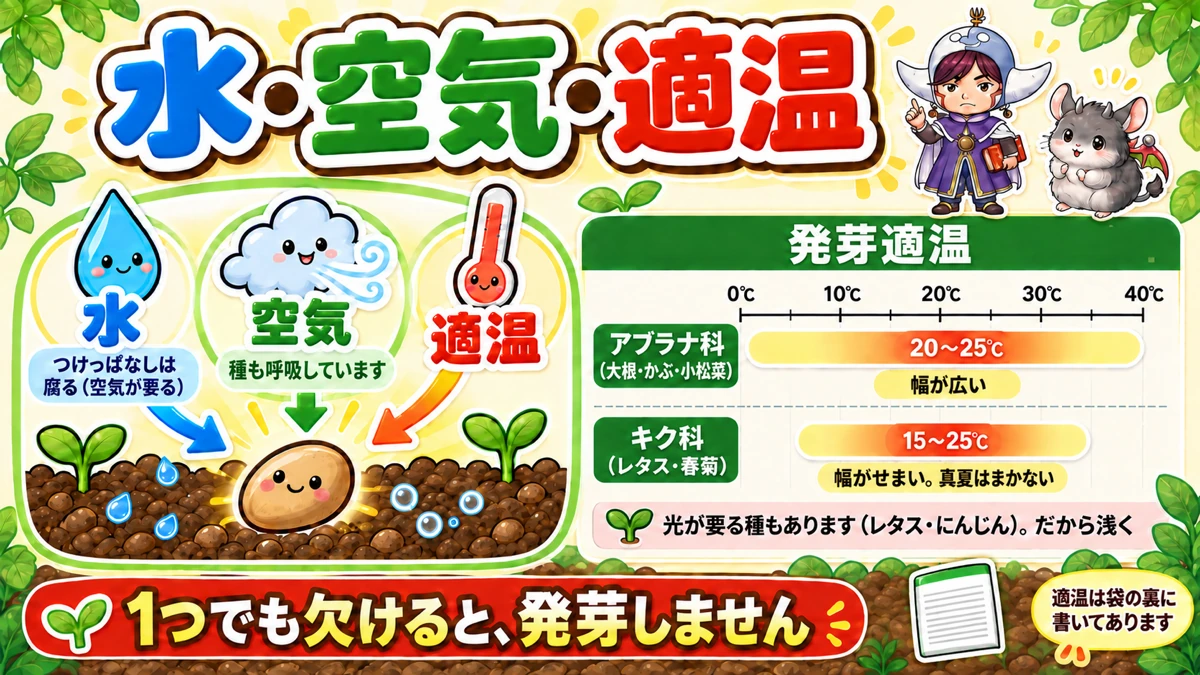
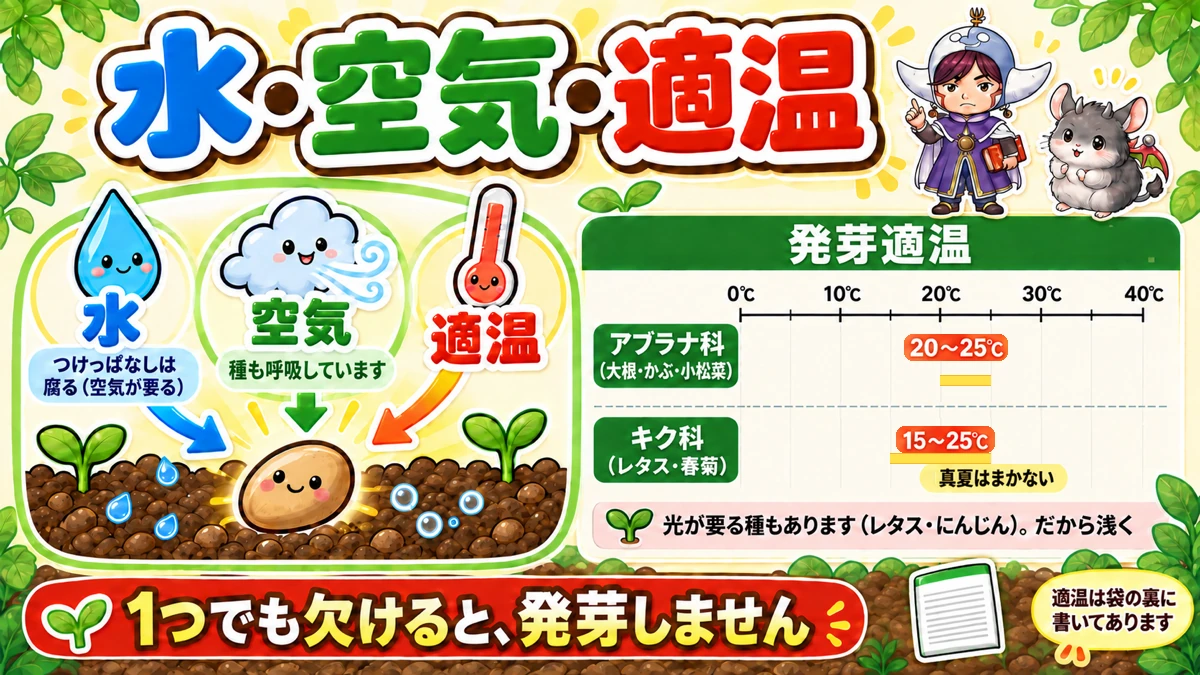
タネまき記事：発芽適温の「幅が広い／せまい」を外し、図のバーを数字に合わせた
本文の「アブラナ科は幅が広く、キク科はせまい」は、20〜25℃（5度幅）と
15〜25℃（10度幅）で数字と逆になっていた。ネタ帳でも裏が取れなかったため削除。

図も、目盛りと対応していなかったバーを 20〜25℃・15〜25℃ ちょうどに直し、
2本の太さをそろえた。「真夏はまかない」は原稿に裏があるので残した。

Changed region(s): [[0.6167, 0.4667, 0.9558, 0.5911], [0.6475, 0.6222, 0.925, 0.7467]]

diff --git a/articles/81-tanemaki.html b/articles/81-tanemaki.html
@@ -119,7 +119,7 @@
   <p>空気が要るからです。じめじめではなく、しっとり。これが正解です。</p>
   <h3>温度は、種類で違います</h3>
   <p>ここが見落とされがちです。</p>
-  <ul><li>アブラナ科（大根・かぶ・小松菜）… 20〜25℃くらい。幅が広く、暑さにも強い</li><li>キク科（レタス・春菊）… 15〜25℃くらい。幅がせまい</li></ul>
+  <ul><li>アブラナ科（大根・かぶ・小松菜）… 20〜25℃くらい</li><li>キク科（レタス・春菊）… 15〜25℃くらい</li></ul>
   <p>レタスを真夏にまいても出ないのは、これが理由です。</p>
   <p>種袋の裏に必ず書いてあります。買ったら、まず裏を見てください。</p>
   <h3>光が要る種もあります</h3>
@@ -190,7 +190,7 @@
 
   <h2 id="s7">まとめ</h2>
   <p>ここまで読んでくださって、ありがとうございます！</p>
-  <ul><li>かける土は、種の大きさの3倍</li><li>小さい種は5mm、中くらいは1cm、大粒は2cm</li><li>深いと、地上に出るまでに力尽きる</li><li>まいたら手のひらで押さえる（鎮圧）</li><li>押さえないと水を吸えず、乾き、流される</li><li>発芽に要るのは水・空気・適温の3つ</li><li>水につけっぱなしは腐る。しっとり程度に</li><li>アブラナ科は温度の幅が広く、キク科はせまい</li><li>レタスやにんじんは光が要るので浅く</li><li>化成肥料の直後にまかない（1週間あける）</li><li>未熟な有機物は熱とガスで種を傷める</li><li>成功率が高いのは3〜4月と9〜10月</li><li>にんじん・豆類・とうもろこしは期限切れを使わない</li><li>アブラナ科・ナス科・ウリ科は古くても使える</li><li>余った種はジッパー袋＋封筒＋冷蔵室</li><li>種の中には、根と葉のもとがもう入っている</li><li>最初に出るのは芽ではなく根</li></ul>
+  <ul><li>かける土は、種の大きさの3倍</li><li>小さい種は5mm、中くらいは1cm、大粒は2cm</li><li>深いと、地上に出るまでに力尽きる</li><li>まいたら手のひらで押さえる（鎮圧）</li><li>押さえないと水を吸えず、乾き、流される</li><li>発芽に要るのは水・空気・適温の3つ</li><li>水につけっぱなしは腐る。しっとり程度に</li><li>発芽適温は種類で違う。種袋の裏を見る</li><li>レタスやにんじんは光が要るので浅く</li><li>化成肥料の直後にまかない（1週間あける）</li><li>未熟な有機物は熱とガスで種を傷める</li><li>成功率が高いのは3〜4月と9〜10月</li><li>にんじん・豆類・とうもろこしは期限切れを使わない</li><li>アブラナ科・ナス科・ウリ科は古くても使える</li><li>余った種はジッパー袋＋封筒＋冷蔵室</li><li>種の中には、根と葉のもとがもう入っている</li><li>最初に出るのは芽ではなく根</li></ul>
   <p>全部やろうとしなくて大丈夫です。まずは次にまくとき、土をかけたあと手のひらで押さえてみてください。それだけで出方が変わります🌱</p>
   <p>次回は、この連載の締めくくりです。私が8年で見てきた、初心者がつまずくところをまとめてお話しします🌱</p>
 
